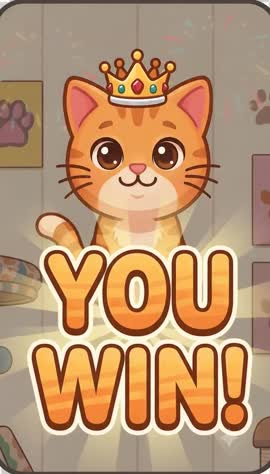
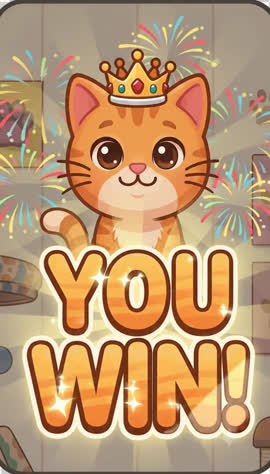
Animation loop

diff --git a/js/ui.js b/js/ui.js
@@ -609,8 +609,9 @@
     el.resultVideo.hidden = false;
     el.resultVideo.setAttribute("aria-label", alt);
 
-    // Rewinding matters on the second win of a session: the element is reused,
-    // and a video parked on its last frame will not replay on its own.
+    // Rewinding matters on the second win of a session: the element is reused
+    // and hideResult() only pauses it, so without this it would pick up wherever
+    // the last win left off.
     try {
       el.resultVideo.currentTime = 0;
     } catch (_) {
@@ -708,10 +709,11 @@
     const mistakeNote = flawless ? "" : ` · ${gameState.mistakes} mistake${gameState.mistakes === 1 ? "" : "s"}`;
 
     showResult({
-      // The clip plays once and settles on its closing frame rather than
-      // looping — a cat cheering on a 10s loop stops reading as a reward and
-      // starts reading as a screensaver. `image` is the fallback, not a second
-      // card: it only ever appears if the video can't play.
+      // Loops (the `loop` attribute is on the element) until the overlay closes,
+      // which is what hideResult's pause() is for. The file is cut and
+      // cross-faded to wrap cleanly — see media/README.md before re-cutting it.
+      // `image` is the fallback, not a second card: it only ever appears if the
+      // video can't play.
       video: "media/you_win.mp4",
       image: "icons/you_win.png",
       alt: "You win",

diff --git a/index.html b/index.html
@@ -69,7 +69,7 @@
            mobile browser blocks sound-on autoplay outright. The win jingle is
            playWinSound()'s job, so the track is stripped from the file. -->
       <video id="result-video" src="media/you_win.mp4" poster="media/you_win_poster.jpg"
-             muted playsinline preload="auto" disablepictureinpicture hidden></video>
+             muted loop playsinline preload="auto" disablepictureinpicture hidden></video>
       <img id="result-img" src="" alt="">
       <p id="result-message"></p>
       <p id="result-stats"></p>

diff --git a/scripts/make-win-loop.py b/scripts/make-win-loop.py
@@ -1,0 +1,136 @@
+#!/usr/bin/env python3
+"""Build media/you_win.mp4 (+ poster) from a source win animation.
+
+    python3 scripts/make-win-loop.py path/to/source.mp4
+
+Not part of the shipped app — run it by hand when the animation is re-rendered.
+See media/README.md for why each number is what it is. The short version:
+
+  * The source has a transparency checkerboard baked into its edges (MP4 has no
+    alpha), so it gets cropped to the card and inset past the h264 blur fringe.
+  * Its first ~2.7s is a one-time reveal that makes the clip unloopable, so only
+    the settled remainder is kept, cross-faded onto itself so it wraps cleanly.
+  * Everything happens in one decode -> one encode, to avoid a second generation
+    of compression loss.
+
+Requires ffmpeg/ffprobe on PATH and numpy.
+"""
+
+import os
+import subprocess
+import sys
+
+import numpy as np
+
+# --- tunables, all measured against the original 720x1280 render -------------
+
+CROP = "crop=702:1230:4:25"  # card is at x 0..710, y 21..1259; 4px inset clears
+                             # the compression fringe that border-radius can't
+OUT_W = 540                  # renders ~240px wide on a phone; 540 is headroom
+START = 64                   # first frame whose brightness matches the settled
+                             # level, i.e. where the one-time reveal has finished
+FADE = 24                    # 1s cross-fade; long enough to hide the wrap,
+                             # short enough not to eat the cat's cheer
+FPS = 24
+CRF = 30                     # flat cartoon art; 30 is visually clean here
+
+HERE = os.path.dirname(os.path.abspath(__file__))
+MEDIA = os.path.join(HERE, os.pardir, "media")
+
+
+def probe_dims(src):
+    out = subprocess.run(
+        ["ffprobe", "-v", "error", "-select_streams", "v:0",
+         "-show_entries", "stream=width,height", "-of", "csv=p=0:s=x", src],
+        capture_output=True, text=True, check=True).stdout.strip()
+    return tuple(int(v) for v in out.split("x")[:2])
+
+
+def decode_settled(src):
+    """Decode the cropped, scaled frames from START onward as raw RGB."""
+    vf = f"{CROP},scale={OUT_W}:-2,select=gte(n\\,{START})"
+    proc = subprocess.run(
+        ["ffmpeg", "-v", "error", "-i", src, "-vf", vf, "-vsync", "0",
+         "-f", "rawvideo", "-pix_fmt", "rgb24", "-"],
+        capture_output=True, check=True)
+    # derive the scaled height rather than assuming it
+    probe = subprocess.run(
+        ["ffmpeg", "-v", "error", "-i", src, "-vf", f"{CROP},scale={OUT_W}:-2",
+         "-frames:v", "1", "-f", "rawvideo", "-pix_fmt", "rgb24", "-"],
+        capture_output=True, check=True).stdout
+    h = len(probe) // (OUT_W * 3)
+    return np.frombuffer(proc.stdout, dtype=np.uint8).reshape(-1, h, OUT_W, 3), h
+
+
+def make_loop(seg):
+    """Dissolve the segment's tail over its head so the wrap is a normal step.
+
+    result[0] lands exactly where result[-1] leaves off, which is what makes the
+    loop invisible rather than merely quick.
+    """
+    length = len(seg)
+    keep = length - FADE
+    if keep <= FADE:
+        sys.exit(f"segment too short: {length} frames with a {FADE}-frame fade")
+    out = seg[:keep].copy()
+    a = (np.arange(FADE, dtype=np.float32) / FADE).reshape(FADE, 1, 1, 1)
+    head = seg[:FADE].astype(np.float32)
+    tail = seg[keep:keep + FADE].astype(np.float32)
+    out[:FADE] = np.clip(head * a + tail * (1 - a), 0, 255).astype(np.uint8)
+    return out
+
+
+def encode(frames, h, dest, poster):
+    raw = os.path.join(MEDIA, "_loop_raw.rgb")
+    frames.tofile(raw)
+    try:
+        subprocess.run(
+            ["ffmpeg", "-y", "-v", "error", "-f", "rawvideo", "-pix_fmt", "rgb24",
+             "-s", f"{OUT_W}x{h}", "-r", str(FPS), "-i", raw, "-an",
+             "-c:v", "libx264", "-profile:v", "main", "-level", "4.0",
+             "-pix_fmt", "yuv420p", "-crf", str(CRF), "-preset", "slow",
+             "-movflags", "+faststart", dest], check=True)
+        subprocess.run(
+            ["ffmpeg", "-y", "-v", "error", "-f", "rawvideo", "-pix_fmt", "rgb24",
+             "-s", f"{OUT_W}x{h}", "-r", str(FPS), "-i", raw, "-frames:v", "1",
+             "-vf", "scale=270:-2", "-c:v", "mjpeg", "-q:v", "6", poster],
+            check=True)
+    finally:
+        if os.path.exists(raw):
+            os.remove(raw)
+
+
+def report(frames):
+    """The wrap should cost about as much as any other frame step."""
+    g = frames[:, ::4, ::4, :].astype(np.float32).mean(3)
+    wrap = np.abs(g[-1] - g[0]).mean()
+    step = np.abs(np.diff(g, axis=0)).mean()
+    print(f"  wrap seam:   {wrap:.2f}")
+    print(f"  normal step: {step:.2f}")
+    print("  -> " + ("seamless" if wrap <= step * 1.25 else
+                     "VISIBLE SEAM: re-check START, the reveal may have moved"))
+
+
+def main():
+    if len(sys.argv) != 2:
+        sys.exit(__doc__)
+    src = sys.argv[1]
+    if not os.path.exists(src):
+        sys.exit(f"no such file: {src}")
+    print(f"source {src} {probe_dims(src)[0]}x{probe_dims(src)[1]}")
+    seg, h = decode_settled(src)
+    print(f"settled segment: {len(seg)} frames from #{START}")
+    loop = make_loop(seg)
+    print(f"loop: {len(loop)} frames ({len(loop)/FPS:.2f}s) at {OUT_W}x{h}")
+    report(loop)
+    dest = os.path.normpath(os.path.join(MEDIA, "you_win.mp4"))
+    poster = os.path.normpath(os.path.join(MEDIA, "you_win_poster.jpg"))
+    encode(loop, h, dest, poster)
+    print(f"wrote {dest} ({os.path.getsize(dest)//1024}KB)")
+    print(f"wrote {poster} ({os.path.getsize(poster)//1024}KB)")
+    print("\nIf you re-cut this, re-check #result-video's border-radius in "
+          "css/styles.css — it's tuned to this exact crop.")
+
+
+if __name__ == "__main__":
+    main()

diff --git a/media/README.md b/media/README.md
@@ -4,30 +4,44 @@ Card art for the win overlay.
 
 | File | What it is |
 |---|---|
-| `you_win.mp4` | The animated win card. 540x946, H.264, 10s, silent, ~970KB. |
-| `you_win_poster.jpg` | Its closing frame, used as the `poster` while the video loads. |
+| `you_win.mp4` | The animated win card. 540x946, H.264, 6.33s, silent, ~620KB. **Loops.** |
+| `you_win_poster.jpg` | Its opening frame, used as the `poster` while the video loads. |
 
 `icons/you_win.png` is still the fallback still — it shows on any browser that
 refuses to autoplay or can't decode the video. It is not otherwise used on a win.
+
+## The loop
+
+The video loops (via the `loop` attribute) for as long as the win overlay is up.
+`hideResult()` pauses it on the way out.
+
+**The source clip cannot be looped as-is.** Its first ~2.7s is a one-time reveal:
+the card dims from cream to grey as the sunburst blooms behind the cat. Frame 0
+and the last frame differ by ~44 units of mean brightness, so a naive `loop`
+flashes hard every cycle. Cutting back to the closest matching frame instead
+still jumps ~1.75x a normal frame step, because the confetti never repeats.
+
+So the shipped file is **the settled portion only, cross-faded to wrap**: frames
+64..239 of the source, with the segment's last second dissolved over its first
+second. That makes the wrap a normal frame step (measured 7.5 vs 7.1 for an
+ordinary step — i.e. invisible) at the cost of the reveal, which is no loss when
+the overlay pops in anyway. The cat's full cheer is inside the looping section.
 
 ## Regenerating from a new source animation
 
 The source was a 720x1280 render of `icons/you_win.png`. MP4 has no alpha
 channel, so the tool that produced it **baked the transparency in as a literal
-grey-and-white checkerboard** around the card's rounded corners. Everything below
-exists to get rid of that.
+grey-and-white checkerboard** around the card's rounded corners. Much of the
+recipe exists to get rid of that.
+
+Build it with `scripts/make-win-loop.py` (crop + trim + cross-fade + encode, all
+from the original file so there's only one generation of compression):
 
 ```sh
-ffmpeg -i source.mp4 -an \
-  -vf "crop=702:1230:4:25,scale=540:-2" \
-  -c:v libx264 -profile:v main -level 4.0 -pix_fmt yuv420p \
-  -crf 30 -preset slow -movflags +faststart you_win.mp4
-
-ffmpeg -i source.mp4 -vf "select='eq(n\,239)',crop=702:1230:4:25,scale=270:-2" \
-  -frames:v 1 -c:v mjpeg -q:v 6 you_win_poster.jpg
+python3 scripts/make-win-loop.py path/to/source.mp4
 ```
 
-Why each part:
+Why the crop and encode flags are what they are:
 
 - **`crop=702:1230:4:25`** — the card sits at x 0..710, y 21..1259 in the source.
   The crop insets 4px past that on every side. Cropping exactly on the measured
@@ -40,6 +54,11 @@ Why each part:
   before the whole file is in.
 - **`scale=540`** — the card renders at ~240px wide on a phone (`max-height: 52vh`).
   540 is comfortable headroom; 720 just costs bytes.
+- **`START = 64`** — where the reveal finishes, found by looking for the first
+  frame whose mean brightness matches the settled level. If a re-render changes
+  the pacing, this moves; the script prints a seam measurement so you'll know.
+- **`FADE = 24`** — 1s. The script reports the wrap seam against a normal frame
+  step; if they're within ~25% the loop is invisible.
 
 ## The corners
 